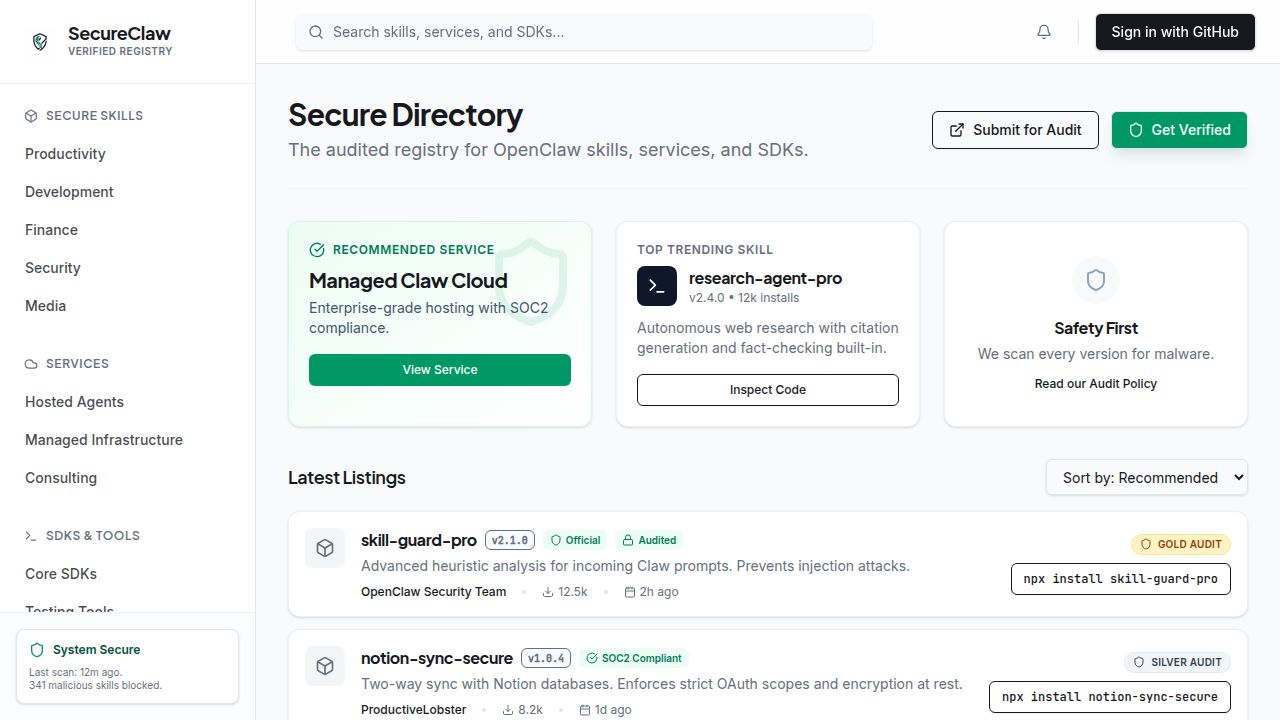
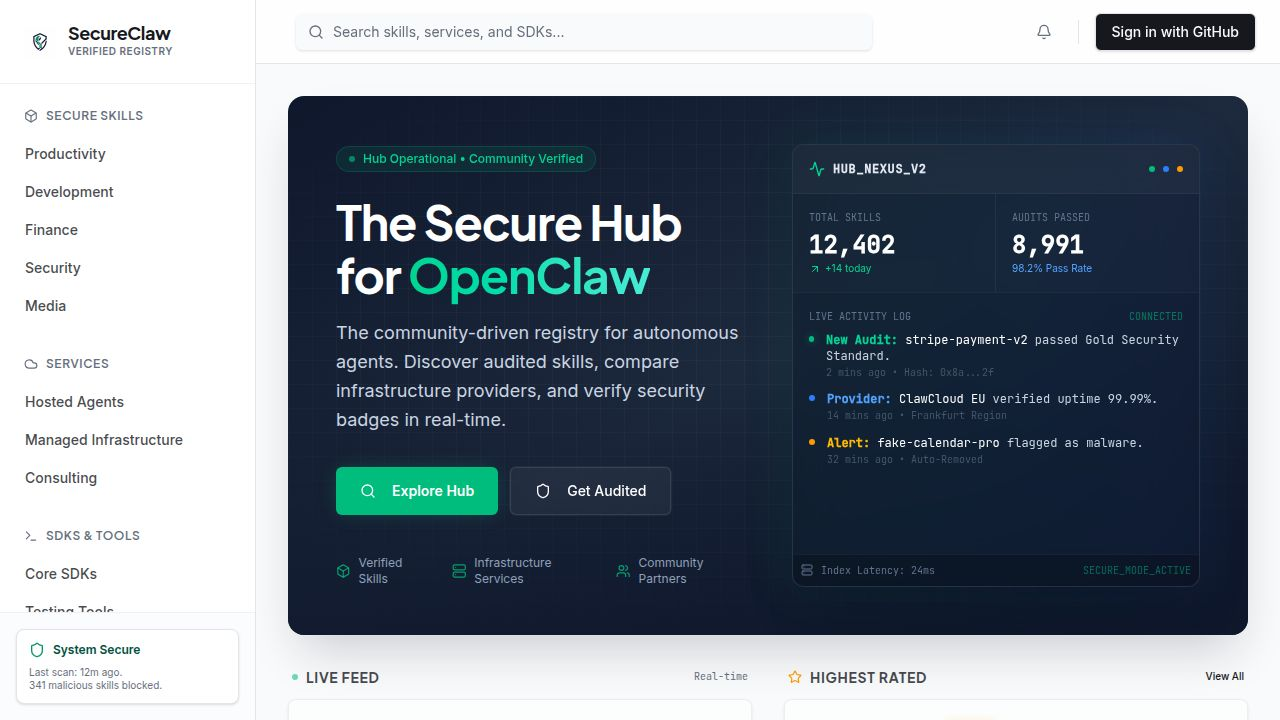
Update the platform to emphasize its role as a community-driven secure hub
Refactors the hero section to rename "Trust Layer" to "Secure Hub", updates branding, and enhances the real-time dashboard with community verification metrics.

Replit-Commit-Author: Agent
Replit-Commit-Session-Id: 1c404626-fb8f-47dc-a976-db885f7b38c0
Replit-Commit-Checkpoint-Type: full_checkpoint
Replit-Commit-Event-Id: ba3cdad9-b380-4b4a-b5d0-bb52fa917333
Replit-Commit-Screenshot-Url: https://storage.googleapis.com/screenshot-production-us-central1/12293c62-324d-4eea-8247-47e63ec0668f/1c404626-fb8f-47dc-a976-db885f7b38c0/JxoziCU
Replit-Helium-Checkpoint-Created: true

diff --git a/client/src/pages/home.tsx b/client/src/pages/home.tsx
@@ -3,7 +3,7 @@ import { topScorers, latestSubmissions, threats, infrastructureProviders, Listin
 import { Badge } from "@/components/ui/badge";
 import { Button } from "@/components/ui/button";
 import { Card } from "@/components/ui/card";
-import { Shield, CheckCircle, Download, ExternalLink, Calendar, Star, AlertTriangle, Terminal, Lock, ChevronRight, Zap, Globe, Server, Activity, ArrowUpRight, Mail, Box, Cloud, Search } from "lucide-react";
+import { Shield, CheckCircle, Download, ExternalLink, Calendar, Star, AlertTriangle, Terminal, Lock, ChevronRight, Zap, Globe, Server, Activity, ArrowUpRight, Mail, Box, Cloud, Search, Users } from "lucide-react";
 import { cn } from "@/lib/utils";
 import { Input } from "@/components/ui/input";
 
@@ -105,96 +105,120 @@ export default function Home() {
             <div className="space-y-6">
               <div className="inline-flex items-center gap-2 px-3 py-1 rounded-full bg-emerald-500/10 border border-emerald-500/20 text-xs font-medium text-emerald-400 backdrop-blur-md">
                 <div className="w-1.5 h-1.5 rounded-full bg-emerald-400 animate-pulse" />
-                System Operational • 12,402 Audits Verified
+                Hub Operational • Community Verified
               </div>
               
               <div className="space-y-4">
                 <h1 className="text-4xl md:text-5xl font-display font-bold tracking-tight text-white leading-[1.1]">
-                  The Trust Layer for <span className="text-transparent bg-clip-text bg-gradient-to-r from-emerald-400 to-teal-300">OpenClaw</span>
+                  The Secure Hub for <span className="text-transparent bg-clip-text bg-gradient-to-r from-emerald-400 to-teal-300">OpenClaw</span>
                 </h1>
                 <p className="text-lg text-slate-300 max-w-md leading-relaxed">
-                  The official security registry for autonomous agents. We audit, rank, and monitor skills so you can run bots with confidence.
+                  The community-driven registry for autonomous agents. Discover audited skills, compare infrastructure providers, and verify security badges in real-time.
                 </p>
               </div>
 
               <div className="flex flex-wrap items-center gap-3 pt-2">
                 <Button size="lg" className="h-12 px-6 bg-emerald-500 hover:bg-emerald-600 text-white border-none font-semibold shadow-[0_0_20px_-5px_rgba(16,185,129,0.4)] transition-all">
                   <Search className="w-4 h-4 mr-2" />
-                  Explore Directory
+                  Explore Hub
                 </Button>
                 <Button size="lg" variant="outline" className="h-12 px-6 bg-white/5 border-white/10 text-white hover:bg-white/10 hover:text-white backdrop-blur-sm ring-1 ring-white/5">
                   <Shield className="w-4 h-4 mr-2" />
-                  Submit for Audit
+                  Get Audited
                 </Button>
               </div>
               
               <div className="flex items-center gap-6 text-xs text-slate-400 pt-4">
                 <div className="flex items-center gap-2">
-                  <CheckCircle className="w-4 h-4 text-emerald-500/80" />
-                  <span>SOC2 Type II Certified</span>
+                  <Box className="w-4 h-4 text-emerald-500/80" />
+                  <span>Verified Skills</span>
                 </div>
                 <div className="flex items-center gap-2">
-                  <CheckCircle className="w-4 h-4 text-emerald-500/80" />
-                  <span>Manual Code Review</span>
+                  <Server className="w-4 h-4 text-emerald-500/80" />
+                  <span>Infrastructure Services</span>
+                </div>
+                <div className="flex items-center gap-2">
+                  <Users className="w-4 h-4 text-emerald-500/80" />
+                  <span>Community Partners</span>
                 </div>
               </div>
             </div>
 
-            {/* Right Visual - Stats Card */}
-            <div className="hidden md:block relative">
+            {/* Right Visual - Hub Nexus */}
+            <div className="hidden md:block relative h-full min-h-[320px]">
                <div className="absolute -inset-1 bg-gradient-to-r from-emerald-500/20 to-blue-500/20 rounded-xl blur-xl opacity-50" />
-               <div className="relative bg-slate-900/60 backdrop-blur-xl border border-white/10 rounded-xl p-6 shadow-2xl">
-                  <div className="flex items-center justify-between mb-6 pb-4 border-b border-white/5">
-                    <div className="flex items-center gap-3">
-                       <Activity className="w-5 h-5 text-emerald-400" />
-                       <span className="font-mono font-bold text-sm text-slate-200">LIVE METRICS</span>
+               <div className="relative h-full bg-slate-900/60 backdrop-blur-xl border border-white/10 rounded-xl overflow-hidden flex flex-col shadow-2xl">
+                  {/* Nexus Header */}
+                  <div className="flex items-center justify-between p-4 border-b border-white/5 bg-white/5">
+                    <div className="flex items-center gap-2">
+                       <Activity className="w-4 h-4 text-emerald-400" />
+                       <span className="font-mono font-bold text-xs text-slate-200 tracking-wider">HUB_NEXUS_V2</span>
                     </div>
-                    <Badge variant="outline" className="border-emerald-500/30 text-emerald-400 bg-emerald-500/10 text-[10px] h-5">REAL-TIME</Badge>
+                    <div className="flex gap-2">
+                       <div className="h-1.5 w-1.5 rounded-full bg-emerald-500" />
+                       <div className="h-1.5 w-1.5 rounded-full bg-blue-500" />
+                       <div className="h-1.5 w-1.5 rounded-full bg-amber-500" />
+                    </div>
                   </div>
                   
-                  <div className="space-y-5">
-                     <div className="flex items-center justify-between">
-                        <div className="flex items-center gap-3">
-                           <div className="p-2 rounded bg-blue-500/10 text-blue-400 ring-1 ring-blue-500/20">
-                             <Box className="w-4 h-4" />
-                           </div>
-                           <div>
-                             <div className="text-2xl font-bold font-mono text-white">8,902</div>
-                             <div className="text-xs text-slate-400">Verified Skills</div>
-                           </div>
+                  {/* Grid Stats */}
+                  <div className="grid grid-cols-2 divide-x divide-white/5 border-b border-white/5">
+                     <div className="p-4 bg-white/[0.02]">
+                        <div className="text-[10px] uppercase text-slate-500 font-mono mb-1">Total Skills</div>
+                        <div className="text-2xl font-bold text-white font-mono">12,402</div>
+                        <div className="text-[10px] text-emerald-400 flex items-center gap-1">
+                           <ArrowUpRight className="w-3 h-3" /> +14 today
                         </div>
-                        <div className="h-8 w-px bg-white/10" />
-                        <div className="flex items-center gap-3">
-                           <div className="p-2 rounded bg-emerald-500/10 text-emerald-400 ring-1 ring-emerald-500/20">
-                             <Shield className="w-4 h-4" />
-                           </div>
-                           <div>
-                             <div className="text-2xl font-bold font-mono text-white">99.9%</div>
-                             <div className="text-xs text-slate-400">Safety Score</div>
-                           </div>
-                        </div>
+                     </div>
+                     <div className="p-4 bg-white/[0.02]">
+                        <div className="text-[10px] uppercase text-slate-500 font-mono mb-1">Audits Passed</div>
+                        <div className="text-2xl font-bold text-white font-mono">8,991</div>
+                        <div className="text-[10px] text-blue-400">98.2% Pass Rate</div>
+                     </div>
+                  </div>
+
+                  {/* Activity Feed */}
+                  <div className="flex-1 p-4 space-y-3 overflow-hidden">
+                     <div className="text-[10px] uppercase text-slate-500 font-mono mb-2 flex justify-between">
+                        <span>Live Activity Log</span>
+                        <span className="animate-pulse text-emerald-500">Connected</span>
                      </div>
                      
-                     <div className="space-y-2 pt-2">
-                        <div className="flex justify-between text-xs text-slate-400">
-                           <span>Threats Blocked (24h)</span>
-                           <span className="text-destructive font-mono">342</span>
-                        </div>
-                        <div className="h-1.5 w-full bg-slate-800 rounded-full overflow-hidden">
-                           <div className="h-full w-[15%] bg-destructive rounded-full" />
-                        </div>
-                     </div>
-                     
-                     <div className="p-3 rounded bg-black/40 border border-white/5 mt-2">
-                        <div className="flex items-start gap-2">
-                           <Terminal className="w-3.5 h-3.5 text-emerald-400 mt-0.5" />
-                           <div className="font-mono text-[10px] text-slate-300 leading-relaxed">
-                              <span className="text-emerald-400/80">root@secureclawhub:~$</span> scan --target latest-uploads<br/>
-                              <span className="text-blue-400/80">Scanning...</span> 142 files checked.<br/>
-                              <span className="text-emerald-400/80">Result:</span> 0 vulnerabilities found.
-                           </div>
+                     {/* Feed Item 1 */}
+                     <div className="flex gap-3 items-start group">
+                        <div className="mt-1 w-1.5 h-1.5 rounded-full bg-emerald-500 shadow-[0_0_8px_rgba(16,185,129,0.5)]" />
+                        <div className="font-mono text-xs text-slate-300">
+                           <span className="text-emerald-400 font-bold">New Audit:</span> <span className="text-white">stripe-payment-v2</span> passed Gold Security Standard.
+                           <div className="text-[10px] text-slate-600 mt-0.5">2 mins ago • Hash: 0x8a...2f</div>
                         </div>
                      </div>
+
+                     {/* Feed Item 2 */}
+                     <div className="flex gap-3 items-start group">
+                        <div className="mt-1 w-1.5 h-1.5 rounded-full bg-blue-500" />
+                        <div className="font-mono text-xs text-slate-300">
+                           <span className="text-blue-400 font-bold">Provider:</span> <span className="text-white">ClawCloud EU</span> verified uptime 99.99%.
+                           <div className="text-[10px] text-slate-600 mt-0.5">14 mins ago • Frankfurt Region</div>
+                        </div>
+                     </div>
+
+                     {/* Feed Item 3 */}
+                     <div className="flex gap-3 items-start group">
+                        <div className="mt-1 w-1.5 h-1.5 rounded-full bg-amber-500" />
+                        <div className="font-mono text-xs text-slate-300">
+                           <span className="text-amber-400 font-bold">Alert:</span> <span className="text-white">fake-calendar-pro</span> flagged as malware.
+                           <div className="text-[10px] text-slate-600 mt-0.5">32 mins ago • Auto-Removed</div>
+                        </div>
+                     </div>
+                  </div>
+
+                  {/* System Footer */}
+                  <div className="p-2 border-t border-white/5 bg-black/20 text-[10px] font-mono text-slate-500 flex justify-between items-center">
+                     <div className="flex items-center gap-2">
+                        <Server className="w-3 h-3" />
+                        <span>Index Latency: 24ms</span>
+                     </div>
+                     <div className="text-emerald-500/50">SECURE_MODE_ACTIVE</div>
                   </div>
                </div>
             </div>
